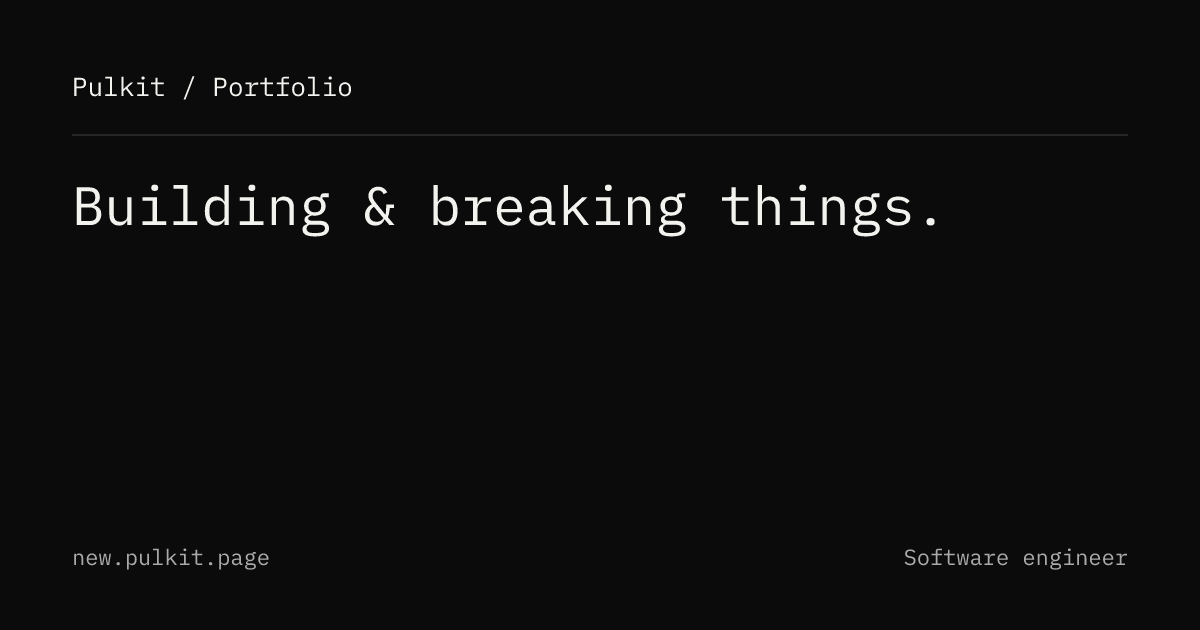
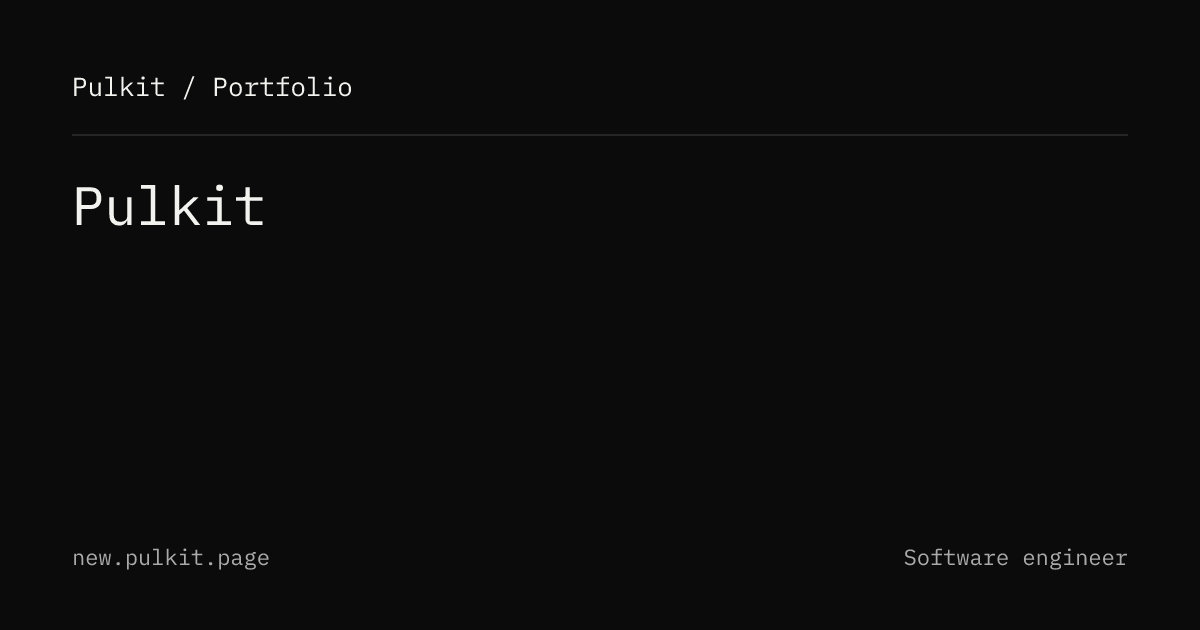
Remove the visible homepage slogan

Changed region(s): [[0.3083, 0.3016, 0.7708, 0.3921], [0.1233, 0.2714, 0.2775, 0.3921], [0.0617, 0.3016, 0.0925, 0.3619]]

diff --git a/pages/index.html b/pages/index.html
@@ -23,7 +23,7 @@
     <meta property="og:image:type" content="image/png" />
     <meta property="og:image:width" content="1200" />
     <meta property="og:image:height" content="630" />
-    <meta property="og:image:alt" content="Building &amp; breaking things." />
+    <meta property="og:image:alt" content="Pulkit" />
 
     <meta name="twitter:card" content="summary_large_image" />
     <meta name="twitter:title" content="Pulkit" />
@@ -32,10 +32,10 @@
       content="Pulkit is a software engineer based in India, building products for the web at Noveum.ai."
     />
     <meta name="twitter:image" content="https://new.pulkit.page/og/home/card.png" />
-    <meta name="twitter:image:alt" content="Building &amp; breaking things." />
+    <meta name="twitter:image:alt" content="Pulkit" />
     <script
       type="application/ld+json"
-    >{"@context":"https://schema.org","@graph":[{"@type":"Person","@id":"https://new.pulkit.page/#person","name":"Pulkit","url":"https://new.pulkit.page/","sameAs":["https://github.com/Pulkitxm","https://x.com/_pulkitxm","https://www.linkedin.com/in/pulkitxm"]},{"@type":"WebSite","@id":"https://new.pulkit.page/#website","url":"https://new.pulkit.page/","name":"Pulkit","description":"Software engineer building useful things for the web.","publisher":{"@id":"https://new.pulkit.page/#person"},"inLanguage":"en"},{"@type":"ImageObject","@id":"https://new.pulkit.page/#image","contentUrl":"https://new.pulkit.page/og/home/card.png","width":1200,"height":630,"caption":"Building \u0026 breaking things."},{"@type":"WebPage","@id":"https://new.pulkit.page/#webpage","url":"https://new.pulkit.page/","name":"Building \u0026 breaking things.","description":"Pulkit is a software engineer based in India, building products for the web at Noveum.ai.","isPartOf":{"@id":"https://new.pulkit.page/#website"},"primaryImageOfPage":{"@id":"https://new.pulkit.page/#image"},"inLanguage":"en","about":{"@id":"https://new.pulkit.page/#person"}}]}</script>
+    >{"@context":"https://schema.org","@graph":[{"@type":"Person","@id":"https://new.pulkit.page/#person","name":"Pulkit","url":"https://new.pulkit.page/","sameAs":["https://github.com/Pulkitxm","https://x.com/_pulkitxm","https://www.linkedin.com/in/pulkitxm"]},{"@type":"WebSite","@id":"https://new.pulkit.page/#website","url":"https://new.pulkit.page/","name":"Pulkit","description":"Software engineer building useful things for the web.","publisher":{"@id":"https://new.pulkit.page/#person"},"inLanguage":"en"},{"@type":"ImageObject","@id":"https://new.pulkit.page/#image","contentUrl":"https://new.pulkit.page/og/home/card.png","width":1200,"height":630,"caption":"Pulkit"},{"@type":"WebPage","@id":"https://new.pulkit.page/#webpage","url":"https://new.pulkit.page/","name":"Pulkit","description":"Pulkit is a software engineer based in India, building products for the web at Noveum.ai.","isPartOf":{"@id":"https://new.pulkit.page/#website"},"primaryImageOfPage":{"@id":"https://new.pulkit.page/#image"},"inLanguage":"en","about":{"@id":"https://new.pulkit.page/#person"}}]}</script>
     <meta name="theme-color" content="#000000" />
     <script src="/theme.js"></script>
     <title>Pulkit</title>
@@ -60,9 +60,7 @@
 
       <main id="main" class="home">
         <article>
-          <header class="page-heading">
-            <h1>Building &amp; breaking things.</h1>
-          </header>
+          <h1 class="visually-hidden">Pulkit</h1>
           <div class="prose">
             <p>
               <img

diff --git a/layouts/home.html b/layouts/home.html
@@ -8,10 +8,7 @@
       <main id="main" class="home">
         {{ breadcrumbs }}
         <article>
-          <header class="page-heading">
-            <h1>{{ heading }}</h1>
-            {{ date }}
-          </header>
+          <h1 class="visually-hidden">{{ heading }}</h1>
           <div class="prose">{{ content }}</div>
         </article>
         {{ related }}

diff --git a/styles.css b/styles.css
@@ -448,3 +448,15 @@ button {
     navigation: none;
   }
 }
+
+.visually-hidden {
+  position: absolute;
+  width: 1px;
+  height: 1px;
+  padding: 0;
+  margin: -1px;
+  overflow: hidden;
+  clip-path: inset(50%);
+  white-space: nowrap;
+  border: 0;
+}

diff --git a/content/home.md b/content/home.md
@@ -1,5 +1,5 @@
 ---
-title: Building & breaking things.
+title: Pulkit
 layout: home
 description: Pulkit is a software engineer based in India, building products for the web at Noveum.ai.
 ---
